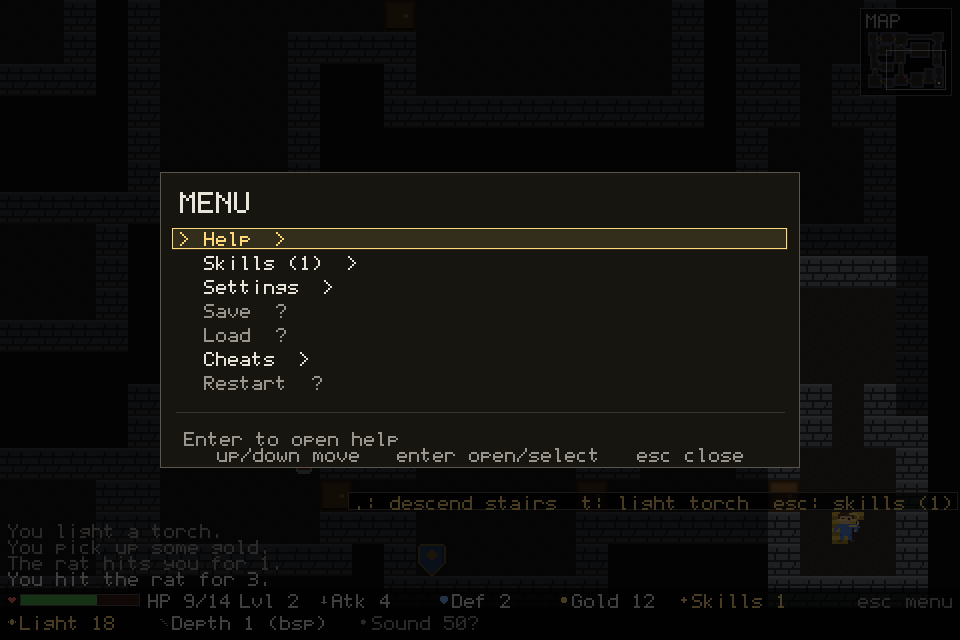
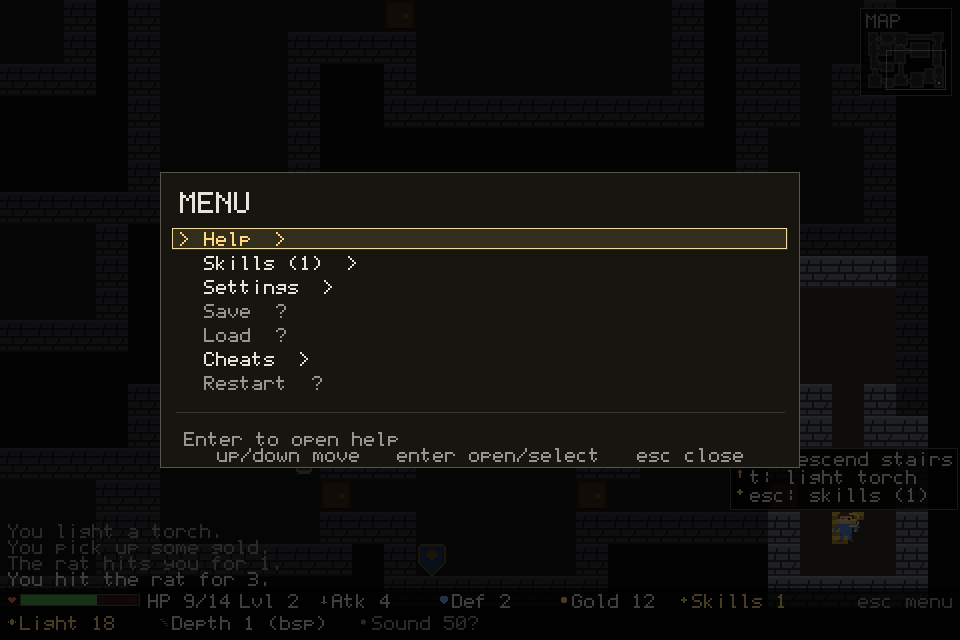
Polish contextual hint placement

Changed region(s): [[0.7188, 0.6875, 0.9688, 0.8125], [0.4062, 0.7812, 0.5625, 0.8125], [0.6562, 0.7812, 0.6875, 0.8125]]

diff --git a/src/ui/hud.ts b/src/ui/hud.ts
@@ -2,6 +2,7 @@ import { TILE_SIZE } from "../core/tiles.ts";
 import { LOGICAL_H, LOGICAL_W, VIEW_COLS, VIEW_ROWS } from "../core/constants.ts";
 import { drawPixelText, drawPixelTextRight, pixelTextWidth } from "./pixel-font.ts";
 import { drawIcon } from "./icons.ts";
+import { minimapRect } from "./minimap.ts";
 import type { Archetype, Entity, Status, StatusKind } from "../core/entities.ts";
 import type { Inventory, ItemKind } from "../core/items.ts";
 import type { MessageLog } from "./menu.ts";
@@ -34,6 +35,29 @@ export type HintIcon =
 export interface ContextualHint {
   text: string;
   icon: HintIcon;
+}
+
+export function hintIconColor(icon: HintIcon): string {
+  switch (icon) {
+    case "item":
+      return "#ffd97a";
+    case "stairs":
+      return "#ffd97a";
+    case "stairsUp":
+      return "#7ab8ff";
+    case "trap":
+      return "#ff6a6a";
+    case "door":
+      return "#c98a4a";
+    case "monster":
+      return "#ff6a6a";
+    case "potion":
+      return "#9be56f";
+    case "torch":
+      return "#ff9a4a";
+    case "skill":
+      return "#ffd97a";
+  }
 }
 
 export interface MonsterHint {
@@ -208,18 +232,46 @@ export function drawContextHints(
   const py = player.y - cam.y;
   if (px < 0 || px >= VIEW_COLS || py < 0 || py >= VIEW_ROWS) return;
 
-  const text = hints.map((hint) => hint.text).join("  ");
-  const w = pixelTextWidth(text, 2) + 12;
-  const h = 18;
-  let x = px * TILE_SIZE + TILE_SIZE / 2 - w / 2;
-  let y = py * TILE_SIZE - h - 2;
-  if (y < 0) y = py * TILE_SIZE + TILE_SIZE + 2;
-  x = Math.max(2, Math.min(LOGICAL_W - w - 2, x));
-  y = Math.max(2, Math.min(LOGICAL_H - 24 - h - 2, y));
+  const rowH = 18;
+  const rows = hints.map((hint) => ({
+    ...hint,
+    width: 8 + 6 + pixelTextWidth(hint.text, 2),
+  }));
+  const w = Math.max(...rows.map((row) => row.width)) + 12;
+  const h = rows.length * rowH + 8;
+  const centerX = px * TILE_SIZE + TILE_SIZE / 2;
+  const minimap = minimapRect();
+  const hudTop = LOGICAL_H - HUD_HEIGHT - 2;
 
-  bctx.fillStyle = "rgba(0,0,0,0.72)";
-  bctx.fillRect(x, y, w, h);
+  const clampX = (x: number): number => Math.max(2, Math.min(LOGICAL_W - w - 2, x));
+  const clampY = (y: number): number => Math.max(2, Math.min(hudTop - h, y));
+  const intersectsMinimap = (x: number, y: number): boolean =>
+    x < minimap.x + minimap.w && x + w > minimap.x && y < minimap.y + minimap.h && y + h > minimap.y;
+
+  const candidates = [
+    { x: clampX(centerX - w / 2), y: clampY(py * TILE_SIZE - h - 2) },
+    { x: clampX(centerX - w / 2), y: clampY(py * TILE_SIZE + TILE_SIZE + 2) },
+    { x: clampX(minimap.x - w - 4), y: clampY(py * TILE_SIZE - h / 2) },
+    { x: clampX(centerX - w / 2), y: clampY(minimap.y + minimap.h + 4) },
+    { x: clampX(centerX - w / 2), y: clampY(hudTop - h) },
+  ];
+
+  let chosen = candidates[0]!;
+  for (const candidate of candidates) {
+    if (!intersectsMinimap(candidate.x, candidate.y)) {
+      chosen = candidate;
+      break;
+    }
+  }
+
+  bctx.fillStyle = "rgba(0,0,0,0.78)";
+  bctx.fillRect(chosen.x, chosen.y, w, h);
   bctx.strokeStyle = "#5a544a";
-  bctx.strokeRect(x + 0.5, y + 0.5, w, h);
-  drawPixelText(bctx, text, x + 6, y + 4, "#ffd97a", 2);
+  bctx.strokeRect(chosen.x + 0.5, chosen.y + 0.5, w, h);
+
+  rows.forEach((row, i) => {
+    const rowY = chosen.y + 4 + i * rowH;
+    drawIcon(bctx, row.icon, chosen.x + 6, rowY, hintIconColor(row.icon));
+    drawPixelText(bctx, row.text, chosen.x + 20, rowY, "#e8e4da", 2);
+  });
 }

diff --git a/tests/ui/hud.test.ts b/tests/ui/hud.test.ts
@@ -1,5 +1,5 @@
 import { describe, expect, it } from "bun:test";
-import { contextualHints, statusIndicatorColor } from "../../src/ui/hud.ts";
+import { contextualHints, hintIconColor, statusIndicatorColor } from "../../src/ui/hud.ts";
 
 describe("contextual hints", () => {
   it("shows pickup only for pickable items", () => {
@@ -160,6 +160,15 @@ describe("contextual hints", () => {
     expect(hints[0]).toEqual({ text: "g: pick up gold", icon: "item" });
     expect(hints[2]).toEqual({ text: "bump: attack rat", icon: "monster" });
     expect(hints[3]).toEqual({ text: "bump: open door", icon: "door" });
+  });
+});
+
+describe("hint icons", () => {
+  it("uses readable colors for contextual hint icons", () => {
+    expect(hintIconColor("item")).toBe("#ffd97a");
+    expect(hintIconColor("monster")).toBe("#ff6a6a");
+    expect(hintIconColor("stairsUp")).toBe("#7ab8ff");
+    expect(hintIconColor("potion")).toBe("#9be56f");
   });
 });
 
